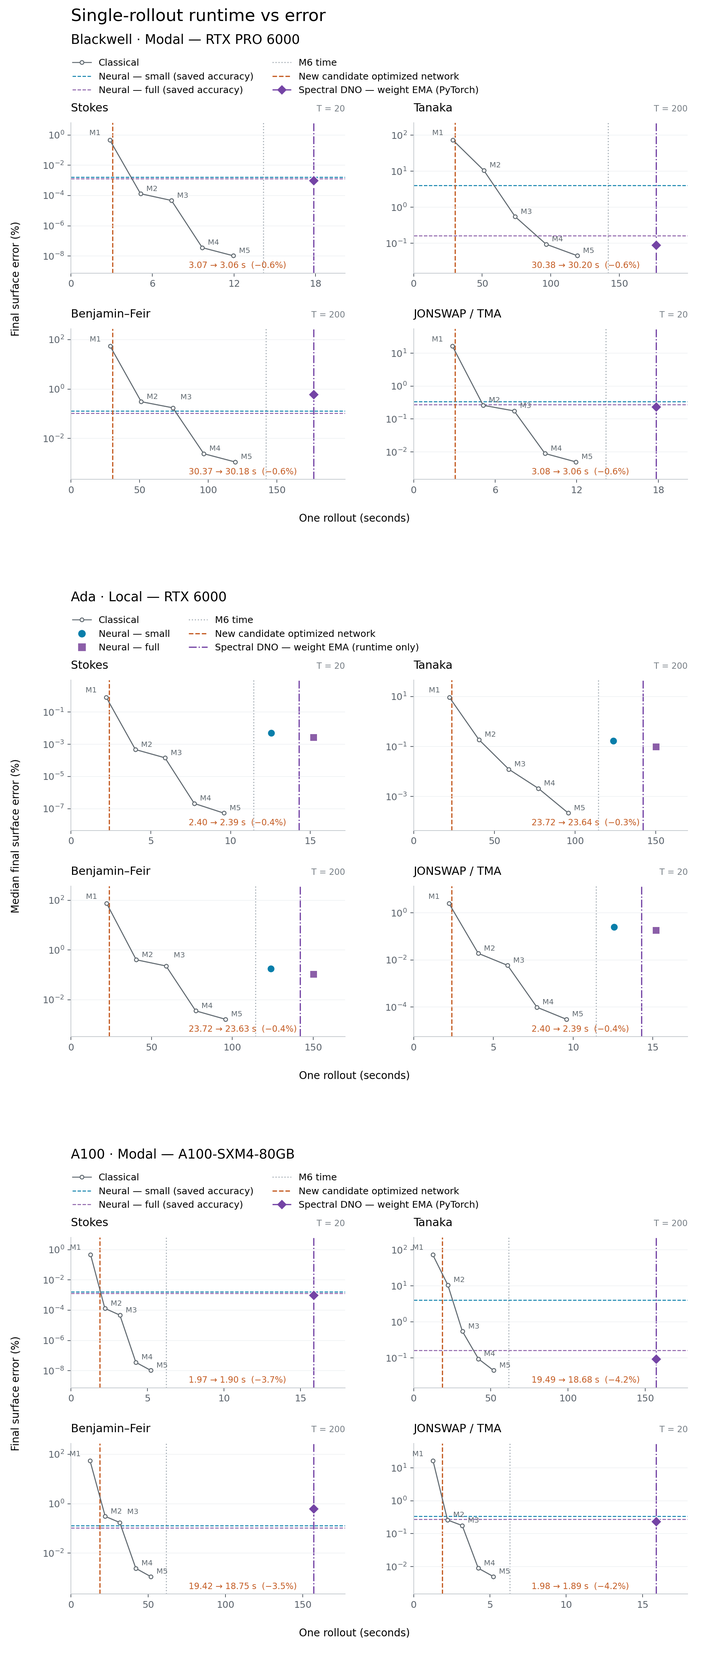
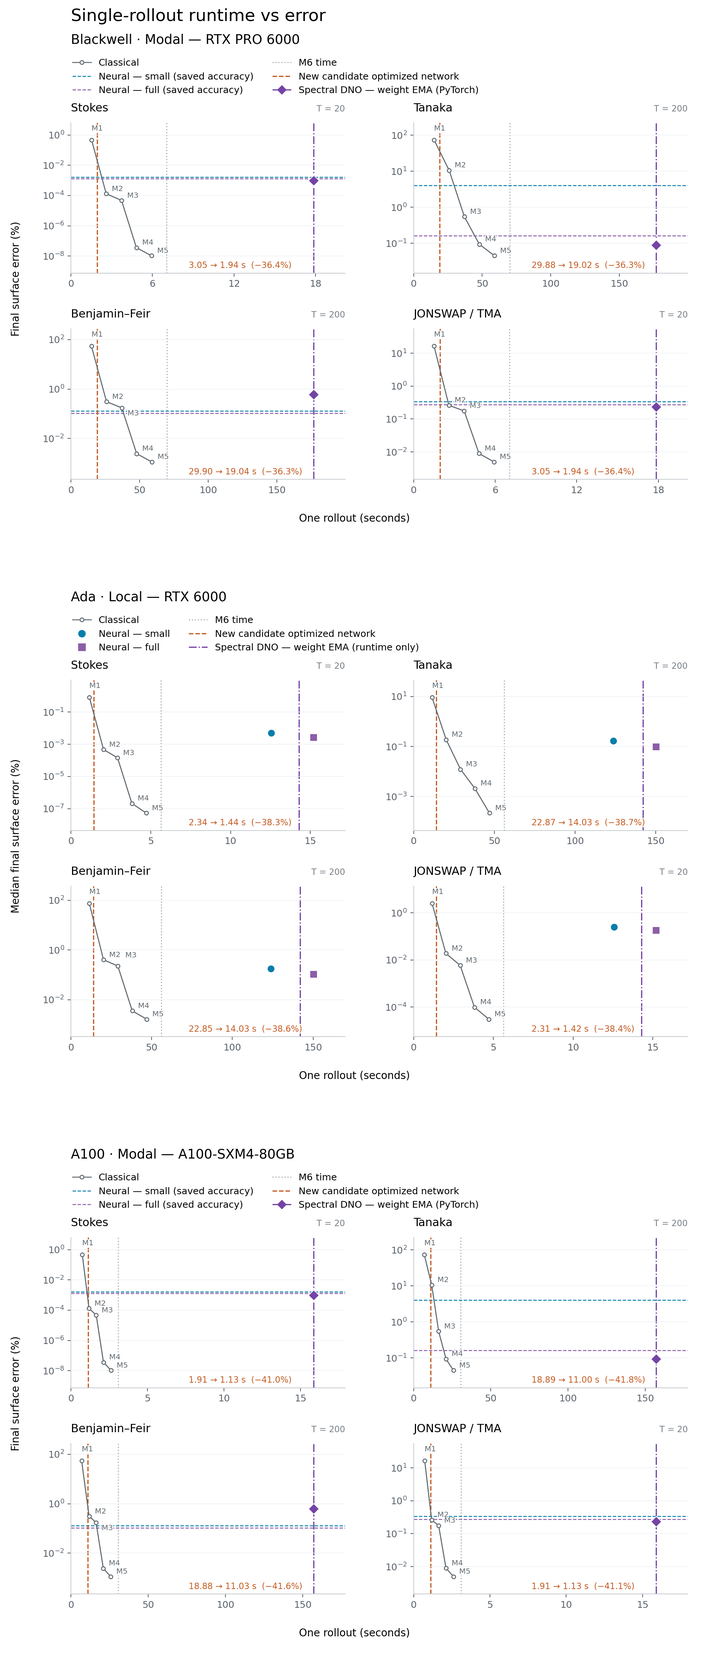
Refresh Figure 12 with shared stage-packed rollout timings

diff --git a/paper-plots/plot_neural_advantage.py b/paper-plots/plot_neural_advantage.py
@@ -35,7 +35,7 @@ def draw_comparison(args: argparse.Namespace, fig: Figure | SubFigure, heading: 
             for family, result in json.loads(path.read_text())["families"].items():
                 warm["families"].setdefault(family, result)["methods"].update(result["methods"])
         for result in warm["families"].values():
-            result["methods"] = {name.removesuffix("_boundaries"): record
+            result["methods"] = {name.removesuffix("_stages").removesuffix("_boundaries"): record
                                  for name, record in result["methods"].items()}
     candidate = {"families": {}} if args.candidate_timings else {}
     for path in args.candidate_timings or ():
@@ -44,8 +44,9 @@ def draw_comparison(args: argparse.Namespace, fig: Figure | SubFigure, heading: 
     if args.stack_hardware:
         for family, result in candidate["families"].items():
             for method, record in result["methods"].items():
-                if method.removesuffix("_boundaries") in ("M1", "M2"):
-                    warm["families"][family]["methods"][method.removesuffix("_boundaries")]["seconds"] = record["seconds"]
+                classical = method.removesuffix("_stages").removesuffix("_boundaries")
+                if classical in ("M1", "M2"):
+                    warm["families"][family]["methods"][classical]["seconds"] = record["seconds"]
     baseline_free = json.loads(args.no_baseline_timings.read_text()) if args.no_baseline_timings and not args.single_case else None
     spectral = {}
     for path in args.spectral_timings or ():
@@ -103,11 +104,12 @@ def draw_comparison(args: argparse.Namespace, fig: Figure | SubFigure, heading: 
         ax.plot(seconds[:-1], errors[:-1], "o-", color="#606970", ms=4,
                 markerfacecolor="white", lw=1.1, zorder=2)
         for order, x, y in zip(orders[:-1], seconds[:-1], errors[:-1], strict=True):
-            offset = (8, 9) if family == "benjamin_feir" and order == 3 else (6, 3)
+            offset = ((6, -8) if args.single_case else (8, 9)) if family == "benjamin_feir" and order == 3 else (6, 3)
             if (candidate or baseline_free) and order == 1:
-                offset = (-22, 5)
+                offset = (0, 10)
             ax.annotate(f"M{order}", (x, y), xytext=offset, textcoords="offset points",
-                        color="#606970", fontsize=8)
+                        color="#606970", fontsize=8,
+                        bbox={"facecolor": "white", "edgecolor": "none", "pad": 0.15})
         ax.axvline(seconds[-1], color="#aab2b9", ls=":", lw=1.2, zorder=1)
         right = float(seconds.max())
         for run, name, _label, color, marker in RUNS:
@@ -143,7 +145,8 @@ def draw_comparison(args: argparse.Namespace, fig: Figure | SubFigure, heading: 
                 previous_seconds = float(np.median(previous["seconds"]))
                 savings = 100 * (1 - new_seconds / previous_seconds)
                 ax.text(0.43, 0.035, f"{previous_seconds:.2f} → {new_seconds:.2f} s  (−{savings:.1f}%)",
-                        transform=ax.transAxes, color=color, fontsize=9)
+                        transform=ax.transAxes, color=color, fontsize=9,
+                        bbox={"facecolor": "white", "edgecolor": "none", "pad": 0.15})
             right = max(right, new_seconds)
             print(f"{title}, {label}: {new_seconds:.3f}s; finite={record['finite']}")
         if family in spectral:
@@ -218,31 +221,20 @@ if __name__ == "__main__":
         modal.single_case = True
         a100 = argparse.Namespace(**vars(modal))
         for config, hardware in ((modal, "blackwell"), (args, "ada"), (a100, "a100")):
-            if hardware == "a100":
-                config.timings = ROOT / "outputs/portable_fusion_20260927/a100_full_sxm/classical.json"
-                config.classical_timings = None
-                config.candidate_timings = [ROOT / "outputs/portable_fusion_20260927/a100_full_sxm/rollouts.json"]
-                config.candidate_method = "fourier_fused_fields_spectral_all_boundaries"
-                config.candidate_previous_method = "fourier_transforms_spectral_all"
-            else:
-                paths = ([ROOT / "outputs/fair_classical_20260925/ada_full.json"] if hardware == "ada" else [
-                    ROOT / f"outputs/fair_classical_20260925/blackwell_{family}/rollouts.json"
-                    for family in ("short", "tanaka", "bf")
-                ])
-                if config.single_case:
-                    config.timings = paths[0]
-                config.classical_timings = paths
-                config.candidate_timings = [
-                    ROOT / f"outputs/fourier_io_20260926/{hardware}_full/rollouts.json",
-                    ROOT / "outputs/fourier_ffts_20260926" / (
-                        "ada_full.json" if hardware == "ada" else "blackwell_full/rollouts.json"),
-                    ROOT / "outputs/fourier_ept_20260926" / (
-                        "ada_mask_full.json" if hardware == "ada" else "blackwell_full/rollouts.json"),
-                ]
-                config.candidate_method = ("fourier_tuned_16_16_16_16_mask_spectral_all" if hardware == "ada"
-                                           else "fourier_tuned_8_8_16_8_mask_spectral_all")
-                config.candidate_previous_method = ("fourier_transforms_e16_spectral_all" if hardware == "ada"
-                                                    else "fourier_transforms_spectral_all")
+            directory = ROOT / "outputs/roofline_push_20260927"
+            classical = directory / {
+                "ada": "ada_classical.json", "blackwell": "blackwell_classical/classical.json",
+                "a100": "a100_classical_sxm/classical.json",
+            }[hardware]
+            if config.single_case:
+                config.timings = classical
+            config.classical_timings = [classical]
+            config.candidate_timings = [directory / {
+                "ada": "ada_full.json", "blackwell": "blackwell_full_combined/rollouts.json",
+                "a100": "a100_full_sxm/rollouts.json",
+            }[hardware]]
+            config.candidate_method = "fourier_fused_fields_overlap_spectral_all_boundaries_stages"
+            config.candidate_previous_method = "fourier_fused_fields_spectral_all_boundaries"
             config.no_baseline_timings = None
         fig = plt.figure(figsize=(10.5, 24.75))
         fig.suptitle("Single-rollout runtime vs error", y=0.995, fontsize=18, ha="left", x=0.10)

diff --git a/experiments/experiments-2026-09-27.md b/experiments/experiments-2026-09-27.md
@@ -6,5 +6,7 @@
 | 2026-09-27 | 00:50 | A100 packed M1–M6 sweep and Figure12 update | A100 lacked plotted M3–M5 points, and every classical order must receive the shared timestep FFT packing used by the candidate. | Completed 24 measured full single rollouts, one per order/family, on A100-SXM4-80GB; source `outputs/portable_fusion_20260927/a100_full_sxm/classical.json`. Added M3–M5 to all four A100 panels, refreshed A100 M1/M6 and candidate timings, and used the paired three-repeat packed M2 median. Saved both Figure12 PNG/PDF; retained Ada/Blackwell panels while their all-order sweeps finish. | All classical outputs finite with positive depth; maximum M6 cached-reference eta discrepancy <=5.08e-12. Plot/data reviewed independently; all five classical error points, M6 timing line, trained accuracy references and EMA overlays present. Pixel comparison confirms the upper two hardware sections are exactly unchanged. Ruff/Pyright pass. | Classical sweep 00:32–00:42; plot update 00:47–00:50. M3/M4/M5 seconds: Stokes [3.200625,4.244914,5.223112], Tanaka [31.611468,42.017906,51.754909], BF [31.602976,42.026772,51.680963], JON [3.188059,4.237053,5.232802]. | KEEP measured A100 results and rendered Figure12. Ada/Blackwell all-order refresh remains pending; no inferred or extrapolated timings added. |
 | 2026-09-27 | 01:19 | Completed Ada/Blackwell shared-boundary classical sweeps | Every classical order needs the same boundary packing as the prior common neural candidate. | Previous background sweeps finished all four families and M1–M6; files `outputs/portable_fusion_20260927/ada_classical.json` and `blackwell_full/classical.json`. Blackwell paired neural results also downloaded in `blackwell_full/rollouts.json`. | All 48 classical outputs finite with positive depth; maximum cached-reference M6 eta error <=5.08e-12 on both devices. | Ada completed 00:51; Blackwell 01:00. | KEEP completed measurements. Subsequent paired-stage experiments will refresh shared classical work again; do not mix incomplete measurements into Figure12. |
 | 2026-09-27 | 01:19 | Paired GL2 stages and FP64 G1 preparation fusion: initial screens | The two RHS evaluations use old stage iterates independently, so batching stages can increase parallelism without batching trajectories. Loading rounded FP32 inputs directly into FP64 G1 kernels can remove preparation buffers. | Added benchmark-only stage vmap and native promoted-input/scaled-eta kernels; no production edits. CPU M1/M2 eight-step check, Ada native B1/B2/two-stage tests, and A100-SXM4/Blackwell full Stokes T20 three-repeat six-method screens. Raw: `outputs/g1_preparation_20260927/ada_native/`, `outputs/roofline_push_20260927/{a100_screen_sxm,blackwell_screen}/`. | Native G1 and 48-state model comparisons exact on all three chips. CPU M1/M2 stage results exact. A100 full Stokes stage eta/xi/Gxi exact; Blackwell stage max eta difference 3.11e-7 and Gxi 3.78e-6, classical M2 exact. All saved cloud outputs finite and positive. Ada timing rejected: Sam started GPU0 work; only our process stopped, Sam untouched. | 01:04–01:17. A100 neural 1.897768→1.211092s, M2 2.155534→1.155128s; Blackwell neural 3.021396→1.810734s, M2 5.028070→2.597554s. G1 alone 1.902760/3.028823s and with stages 1.210744/1.816026s, respectively. | ADVANCE paired stages for full-family confirmation, including classical M1–M6. G1 preparation fusion has no clear speed gain; do not adopt from this screen. Stage-packed neural is about 4.8% slower than stage-packed M2 on A100 Stokes. Ada clean timing awaits a reserved GPU. |
-| 2026-09-27 | 01:29 | G1/learned-branch stream overlap and three-way combinations | G1 and the learned correction share normalized inputs but have no dependencies on each other; running them on separate streams could hide part of the small G1 kernels. | Used an annotated nested JIT with `--xla_gpu_experimental_stream_annotation=true`. Initial separate eta/xi arguments caused late slicing and no overlap; passing their common packed input moves async-start before learned transforms. Latency-hiding scheduler alone did not fix the initial schedule. Full Stokes three-repeat screens: `outputs/roofline_push_20260927/{blackwell_overlap_screen,a100_overlap_sxm_retry}/`; Blackwell GPU trace in `native_trace/`. A100 PCIe allocation rejected before timing, rerun on SXM4. | All 48-state forward outputs exact. Non-stage full-rollout overlap outputs exact. A100 paired outputs exact; Blackwell paired variants identical to one another, with max eta/Gxi differences 3.11e-7/3.78e-6 versus control. Blackwell trace confirms overlap in 19/20 G1 calls for both overlap variants; field-overlap averages 2.43us overlapping GPU work per call, primarily with input/field transforms rather than dense GEMMs. | Screens 01:15–01:24. A100 control/stages/overlap/both 1.912306/1.218729/1.792366/1.121342s; Blackwell 3.0379/1.8411/2.7275/1.9705s. Adding G1 preparation to both gives 1.126878/1.9641s. | ADVANCE stages plus overlap as the common candidate: overlap saves another 8.0% on A100 beyond stages alone, but costs about 7% on Blackwell. Both remain faster than control. REJECT G1 preparation as a speed improvement; retain only as a benchmark trial. Confirm all four families and equally optimized classical M1–M6 before updating the plot. |
-| 2026-09-27 | 01:29 | Clean Ada GPU1 optimization screen | GPU0 timing was contaminated by other work; GPU1 became idle and allows all three ideas and combinations to be compared without disturbing other users. | Fresh GPU1 precheck, 48-state four-variant forward test and ten-method full Stokes three-repeat screen. Files `outputs/roofline_push_20260927/ada_forward_packed_gpu1/` and `ada_stokes.json`. No other GPU1 compute processes before/during/after; GPU0 jobs untouched. | All forward variants exact. All paired neural variants identical to one another; max eta/xi/Gxi relative changes versus unpaired control 3.56e-7/1.64e-7/4.06e-6. Unpaired overlap and G1 preparation exact versus control; paired classical M2 exact. All trajectories finite and positive depth. | 01:21–01:25. Control/stages/G1-prep/G1-prep+stages 2.308363/1.355920/2.311286/1.360046s; overlap/overlap+stages/G1-prep+overlap/all-three 2.016707/1.431707/2.014240/1.448412s. M2 3.948512→2.042565s. | Stages alone is fastest on Ada, reducing neural time 41.3%; common stages-plus-overlap saves 38.0% and remains about 29.9% faster than equally stage-packed M2. Proceed with full four-family confirmation and all-order classical refresh on GPU1 at the user's request. No production/training edits. |
+| 2026-09-27 | 01:30 | G1/learned-branch stream overlap and three-way combinations | G1 and the learned correction share normalized inputs but have no dependencies on each other; running them on separate streams could hide part of the small G1 kernels. | Used an annotated nested JIT with `--xla_gpu_experimental_stream_annotation=true`. Initial separate eta/xi arguments caused late slicing and no overlap; passing their common packed input moves async-start before learned transforms. Latency-hiding scheduler alone did not fix the initial schedule. Full Stokes three-repeat screens: `outputs/roofline_push_20260927/{blackwell_overlap_screen,a100_overlap_sxm_retry}/`; Blackwell GPU trace in `native_trace/`. A100 PCIe allocation rejected before timing, rerun on SXM4. | All 48-state forward outputs exact. Non-stage full-rollout overlap outputs exact. A100 paired outputs exact; Blackwell paired variants identical to one another, with max eta/Gxi differences 3.11e-7/3.78e-6 versus control. Blackwell trace confirms overlap in 19/20 G1 calls for both overlap variants; field-overlap averages 2.43us overlapping GPU work per call, primarily with input/field transforms rather than dense GEMMs. | Screens 01:15–01:24. A100 control/stages/overlap/both 1.912306/1.218729/1.792366/1.121342s; Blackwell 3.0379/1.8411/2.7275/1.9705s. Adding G1 preparation to both gives 1.126878/1.9641s. | ADVANCE stages plus overlap as the common candidate: overlap saves another 8.0% on A100 beyond stages alone, but costs about 7% on Blackwell. Both remain faster than control. REJECT G1 preparation as a speed improvement; retain only as a benchmark trial. Confirm all four families and equally optimized classical M1–M6 before updating the plot. |
+| 2026-09-27 | 01:30 | Clean Ada GPU1 optimization screen | GPU0 timing was contaminated by other work; GPU1 became idle and allows all three ideas and combinations to be compared without disturbing other users. | Fresh GPU1 precheck, 48-state four-variant forward test and ten-method full Stokes three-repeat screen. Files `outputs/roofline_push_20260927/ada_forward_packed_gpu1/` and `ada_stokes.json`. No other GPU1 compute processes before/during/after; GPU0 jobs untouched. | All forward variants exact. All paired neural variants identical to one another; max eta/xi/Gxi relative changes versus unpaired control 3.56e-7/1.64e-7/4.06e-6. Unpaired overlap and G1 preparation exact versus control; paired classical M2 exact. All trajectories finite and positive depth. | 01:21–01:25. Control/stages/G1-prep/G1-prep+stages 2.308363/1.355920/2.311286/1.360046s; overlap/overlap+stages/G1-prep+overlap/all-three 2.016707/1.431707/2.014240/1.448412s. M2 3.948512→2.042565s. | Stages alone is fastest on Ada, reducing neural time 41.3%; common stages-plus-overlap saves 38.0% and remains about 29.9% faster than equally stage-packed M2. Proceed with full four-family confirmation and all-order classical refresh on GPU1 at the user's request. No production/training edits. |
+| 2026-09-27 | 01:37 | Common stage-pairing plus G1-overlap: full four-family confirmation | Stage pairing reduces dispatch and increases parallel work; G1 overlap adds an A100 gain that can preserve the candidate's lead over equally optimized M2 while using one implementation on all chips. | Four methods, three interleaved full single-rollout repeats per family on all three chips: control, stages-only, stages-plus-overlap, and M2 with stages. Same EPT8, FP64 integration/G1, FP32 network, weights, N1024, dt0.01, four GL2 iterations, pad2. Sources under `outputs/roofline_push_20260927/`: `ada_full.json`, `blackwell_full_combined/rollouts.json`, `a100_full_sxm/rollouts.json`. Ada exclusively GPU1; GPU0 untouched. | All 48 trajectories finite with positive depth. A100 eta/xi/Gxi exactly match control in every family. On Ada/Blackwell the stage-only and stage-plus-overlap results coincide, but stage batching changes accumulated FP32 trajectories: worst BF relative max eta/xi/Gxi differences 0.002130/0.002163/0.002576 and 0.003031/0.003068/0.003376, respectively. BF terminal surface error against cached M6 improves 0.010169→0.008389 (Ada) and 0.010664→0.008124 (Blackwell); these are not bitwise-equivalent optimizations there. Other-family max eta differences <=1.11e-5/1.88e-5. Independent review confirms stage independence, managed stream dependencies and unchanged precision. | Completed A100 01:29, Blackwell 01:34, Ada 01:36. Common candidate Stokes/Tanaka/BF/JON seconds: Ada [1.444120,14.028285,14.026058,1.422914], Blackwell [1.939246,19.023749,19.035449,1.938744], A100 [1.126893,11.001483,11.034108,1.125831]. Saves 38.33–38.67% / 36.33–36.37% / 40.95–41.77% versus paired control; 29.43–30.53% / 25.35–26.65% / 4.83–6.46% less time than stage-packed M2. Compilation/warm-up/transfers excluded. | KEEP stages plus overlap as the common benchmark candidate on every chip. Stage-only is faster on Ada/Blackwell, but overlap gives A100 its additional ~8% and lead over M2. REJECT G1 preparation fusion as a speed improvement. Candidate remains runtime-only in Figure12; preserve old trained-model accuracies. No training or production changes. Complete the shared M1–M6 refresh before rendering. |
+| 2026-09-27 | 01:48 | Shared stage-paired M1–M6 refresh and Figure12 | Classical recurrences need the same independent-stage parallelism as the neural candidate; all orders must be remeasured before displaying a fair runtime comparison. | Completed 72 full single rollouts: M1–M6 across four families on Ada GPU1, Blackwell and A100-SXM4. Sources `outputs/roofline_push_20260927/{ada_classical.json,blackwell_classical/classical.json,a100_classical_sxm/classical.json}`. Figure12 now reads those orders plus the paired three-repeat M2 median and common neural candidate/control. Regenerated PNG/PDF; retained old trained-model accuracies and EMA overlays. | All classical outputs finite/positive. Every eta/xi/Gxi error summary, minimum depth and finite flag exactly matches the preceding unpaired-stage sweep on each GPU; maximum cached-reference M6 eta discrepancy 5.08e-12. Independent data/visual review confirms all 12 candidate lines, savings, classical series and retained accuracy references; M2 replacement affects only seconds. Ruff/Pyright pass. | Ada sweep finished 01:46, GPU1 released; Figure12 refreshed 01:46–01:47. No extrapolated horizons or batch-trajectory times. Classical M6 Stokes/Tanaka/BF/JON seconds: Ada [5.6303,56.1080,56.0648,5.6345], Blackwell [7.0373,70.0535,70.0198,7.0418], A100 [3.0996,30.5911,30.5696,3.1089]. | KEEP measured results and Figure12. Same selected inference implementation across all three chips, shared stage packing across every classical order. Candidate is faster than equally optimized M2 in all 12 comparisons. Ada GPU1 and cloud jobs completed; Sam's jobs untouched. No production/training changes or manuscript/ZIP regeneration. |

diff --git a/paper-plots/README.md b/paper-plots/README.md
@@ -196,25 +196,32 @@ is saved under `outputs/torch_ema_20260926/evaluation/` (128/128 finite).
 These timings use BF16/FP32 neural inference, FP64 integration, and a reusable
 CUDA graph of the unchanged GL2 step; capture and warm-up are excluded.
 
-The A100 panel now uses `fourier_fused_fields_spectral_all_boundaries`,
-with EPT8 throughout, and includes measured M1–M6 timings in all four families.
-It forms the learned surface/branch multipliers inside their inverse FFT
-and packs eta/xi timestep-boundary transforms. The latter also applies to
-every classical order. Input-normalization fusion was tested but excluded
-because it did not improve runtime consistently across the GPUs.
-Annotations compare the candidate against `fourier_transforms_spectral_all`
-in the same three-repeat, four-family benchmark, not against the earlier
-device-specific settings. Sources are under `outputs/portable_fusion_20260927/`:
-`ada_full.json`, `blackwell_full/rollouts.json`, and
-`a100_full_sxm/rollouts.json`. A100 classical M1–M6 use one fresh full-rollout
-measurement each from `a100_full_sxm/classical.json`; M2 uses the three-repeat
-packed median from the paired run. Ada and Blackwell panels retain their
-preceding measurements while their new all-order classical sweeps finish.
-The common bundle reduces full-rollout runtime by 1.47–1.57% on Ada,
-1.64–1.80% on Blackwell, and 3.47–4.19% on A100. Saved neural eta/xi/Gxi
-outputs are identical to the paired control in every family on every GPU.
+All three hardware panels use the same
+`fourier_fused_fields_overlap_spectral_all_boundaries_stages` candidate,
+with EPT8 throughout. It pairs the two independent GL2 stage evaluations
+within each iteration of one trajectory and overlaps G1 with the learned
+correction using a compiler-managed GPU stream. Stage pairing and boundary
+FFT packing also apply to every classical order M1–M6. FP64 integration/G1,
+FP32 learned inference, weights, dt and iteration count are unchanged.
+G1 input-preparation fusion was tested but excluded for lack of a speed gain.
+
+Annotations compare against `fourier_fused_fields_spectral_all_boundaries`
+in the same three-repeat, four-family full-rollout benchmark. Sources under
+`outputs/roofline_push_20260927/` are `ada_full.json`,
+`blackwell_full_combined/rollouts.json`, and `a100_full_sxm/rollouts.json`.
+Classical M1–M6 use fresh full-rollout measurements from `ada_classical.json`,
+`blackwell_classical/classical.json`, and `a100_classical_sxm/classical.json`;
+M2 uses the three-repeat median from the paired neural comparison, with its
+accuracy still taken from the classical M6 reference. Ada timings run on GPU1.
+Across the four families, the common candidate uses 38.3–38.7% less time on Ada,
+36.3–36.4% on Blackwell, and 41.0–41.8% on A100 than its paired control.
+It uses 29.4–30.5%, 25.4–26.7%, and 4.8–6.5% less time than optimized M2,
+respectively. A100 saved trajectories are unchanged. Stage pairing on Ada and
+Blackwell changes long Benjamin–Feir trajectories by up to 0.26% and 0.34%
+across eta/xi/Gxi; both have smaller final surface errors against M6 in this case.
 Trained-model accuracy references and EMA overlays are retained. Trial
-details and decisions are in `experiments/experiments-2026-09-27.md`.
+details, numerical comparisons and decisions are in
+`experiments/experiments-2026-09-27.md`.
 
 The preceding FFT round used `fourier_transforms_e16_spectral_all` on Ada and
 `fourier_transforms_spectral_all` on Blackwell/A100.
@@ -246,11 +253,11 @@ Blackwell, and 19.86–20.39% on A100 versus `fused_cufftdx_spectral_all`.
 The A100 allocation is the 80GB SXM4 variant; the classical series retains that
 run's three repeats for M1 and one M6 reference rollout per family, with M2
 refreshed by the latest paired comparison. Unmeasured
-M3–M5 are omitted; earlier 40GB A100 timings are not mixed into the new row.
+M3–M5 were omitted in that round; earlier 40GB A100 timings were not mixed into it.
 
-Ada and Blackwell M1 medians retain their preceding Fourier-I/O paired runs;
-M3–M6 retain the earlier three-repeat measurements on the same hardware.
-M2 is remeasured with the old and new candidates on each GPU. Classical math
+In that round, Ada and Blackwell M1 medians retained their preceding Fourier-I/O paired runs;
+M3–M6 retained the earlier three-repeat measurements on the same hardware.
+M2 was remeasured with the old and new candidates on each GPU. Classical math
 and the shared nonlinear RHS are unchanged; these replacements concern the
 network's unpadded, normalized inputs and learned fields, absent from the
 spectral classical recurrence.
@@ -265,7 +272,7 @@ no training is performed.
 
 Historical baseline-replacement measurements remain under `outputs/shared_m1_20260926/`:
 `ada_full.json`, `blackwell/rollouts.json` and `a100/rollouts.json`; they are no longer plotted.
-Ada/Blackwell M3–M6 retain the preceding
+Those Ada/Blackwell M3–M6 measurements retained the preceding
 three-repeat medians from `outputs/fair_classical_20260925/`, including the
 M6 runtime reference. Ada/Blackwell classical error coordinates are unchanged: Ada retains
 the earlier 32-case medians and small/full neural points; the Modal panels use
@@ -296,7 +303,7 @@ This update does not regenerate figure 11, the manuscript or the ZIP. Reproduce 
 UV_CACHE_DIR=/tmp/codex-uv-cache uv run --no-sync paper-plots/plot_neural_advantage.py \
   --stack-hardware \
   --timings outputs/single_rollout_timing_20260923.json \
-  --candidate-timings outputs/fourier_io_20260926/ada_full/rollouts.json \
+  --candidate-timings outputs/roofline_push_20260927/ada_full.json \
   --spectral-timings outputs/torch_ema_20260926/blackwell_timing/timings.json \
     outputs/torch_ema_20260926/a100_80gb_timing/timings.json \
     outputs/torch_ema_20260926/ada_timing/timings.json
@@ -315,11 +322,14 @@ CUDA_VISIBLE_DEVICES=0 NCCL_P2P_LEVEL=PHB uv run --isolated --no-project --pytho
 Reproduce the local full-rollout measurements on a free GPU with:
 
 ```sh
-CUDA_VISIBLE_DEVICES=0 uv run --no-sync scripts/time_single_rollouts.py \
-  --methods M1 M2 M6 fused_cufftdx_spectral_all fourier_round_spectral_all \
-  --reference M6 --reference-once --repeats 3 --pad-factor 2 \
+CUDA_VISIBLE_DEVICES=1 XLA_FLAGS=--xla_gpu_experimental_stream_annotation=true \
+  uv run --no-sync scripts/time_single_rollouts.py \
+  --methods fourier_fused_fields_spectral_all_boundaries \
+    fourier_fused_fields_spectral_all_boundaries_stages \
+    fourier_fused_fields_overlap_spectral_all_boundaries_stages M2_boundaries_stages \
+  --reference fourier_fused_fields_spectral_all_boundaries --repeats 3 --pad-factor 2 \
   --candidate-run outputs/c27_w320_b4_h80_tanaka_hard128_20260924 \
-  --output outputs/fourier_io_20260926/ada_full/rollouts.json
+  --output outputs/roofline_push_20260927/ada_full.json
 ```
 
 The cuFFTDx prototype is inference-only, outside both production trainers.

diff --git a/EXPERIMENTS.md b/EXPERIMENTS.md
@@ -33,11 +33,11 @@ could not be recovered at all are in
 
 ## Dated logs
 
-79 files, 1107 rows.
+79 files, 1109 rows.
 
 | Date | Rows | File | Size |
 | --- | --- | --- | --- |
-| 2026-09-27 | 8 | [`experiments/experiments-2026-09-27.md`](experiments/experiments-2026-09-27.md) | 12 KB |
+| 2026-09-27 | 10 | [`experiments/experiments-2026-09-27.md`](experiments/experiments-2026-09-27.md) | 16 KB |
 | 2026-09-26 | 19 | [`experiments/experiments-2026-09-26.md`](experiments/experiments-2026-09-26.md) | 30 KB |
 | 2026-09-25 | 19 | [`experiments/experiments-2026-09-25.md`](experiments/experiments-2026-09-25.md) | 28 KB |
 | 2026-09-24 | 19 | [`experiments/experiments-2026-09-24.md`](experiments/experiments-2026-09-24.md) | 33 KB |
